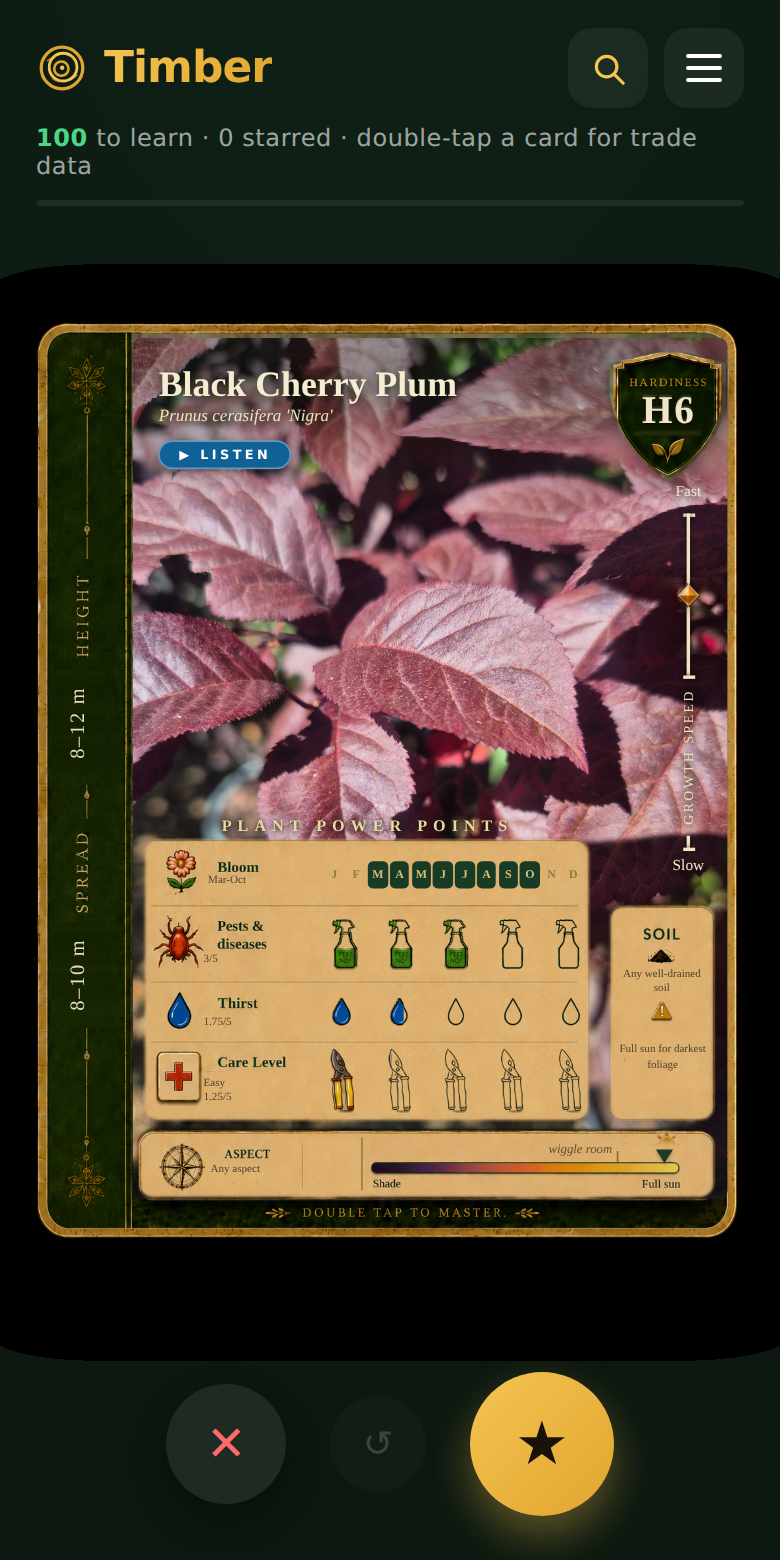
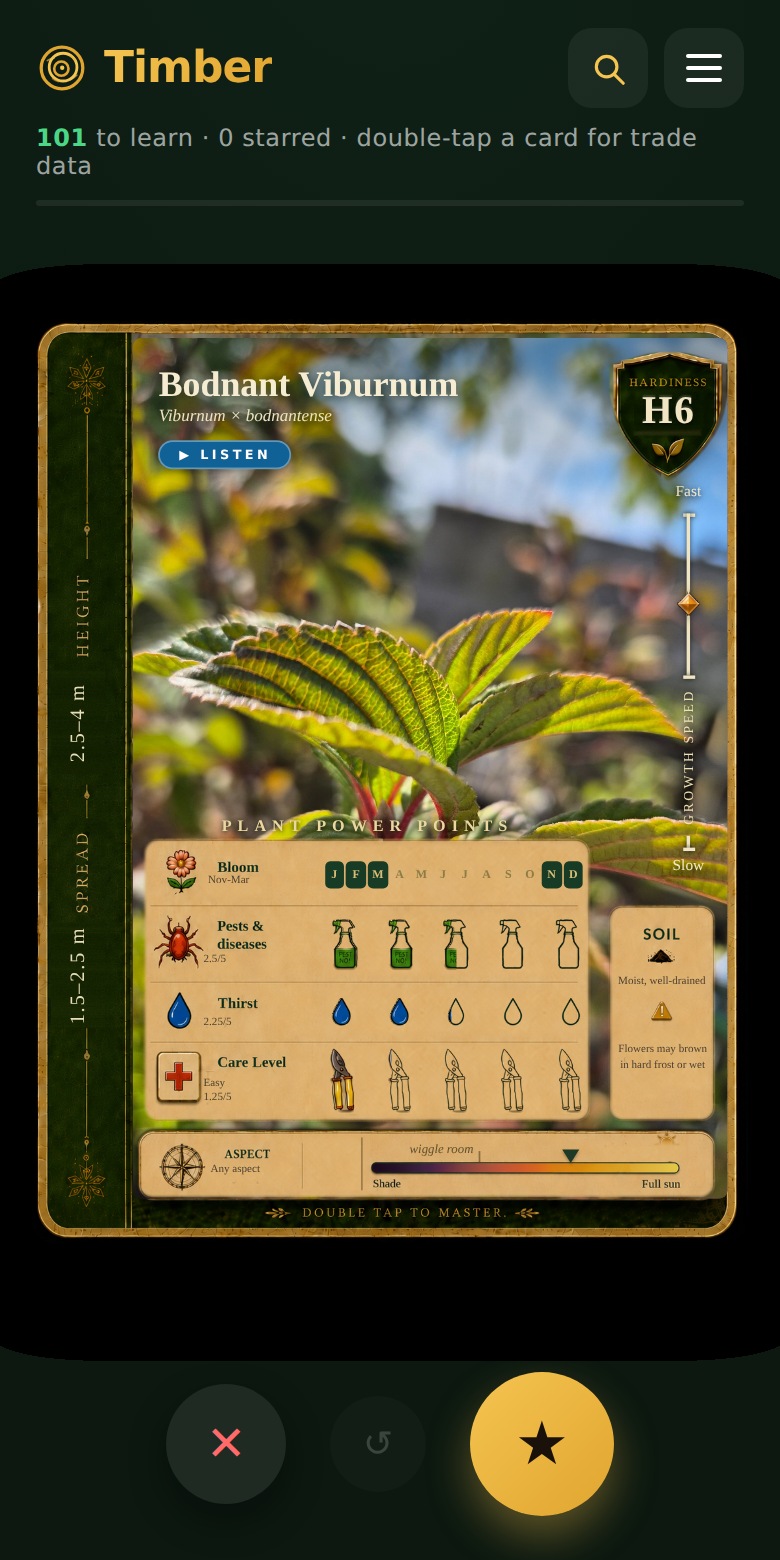
Add Bodnant Viburnum to deck: 100 -> 101

diff --git a/timber.html b/timber.html
@@ -1804,6 +1804,18 @@ const PLANTS = [
    hardiness:"H6", resilience:"cold hardy · exposed-site tolerant",
    uses:"specimen · wildlife gardens · foliage contrast", size:"8–12 m H × 8–10 m W",
    seasonalImpact:"", growthSpeed:10, pestRisk:12, thirst:7, careLevel:5, sunNeed:95, sunMin:80},
+  {common:"Bodnant Viburnum", latin:"Viburnum × bodnantense", hue:335,
+   visual:"Fragrant pink-white flowers crowd bare winter stems · bronze-flushed young leaves",
+   water:"Moderate; water during prolonged dry spells",
+   aspect:"Any aspect",
+   soil:"Moist, well-drained; Flowers may brown in hard frost or wet",
+   prune:"Minimal; prune or renovate after flowering if needed",
+   source:"", peak:"Nov-Mar", order:"", bench:"", root:"",
+   trade:"", retail:"", margin:"", type:"", shrink:"", returnRisk:"", pots:"",
+   cvs:"'Charles Lamont' · 'Dawn' · 'Deben'",
+   hardiness:"H6", resilience:"cold hardy · coastal · exposed-site tolerant",
+   uses:"winter scent · shrub borders · courtyards · pollinators", size:"2.5–4 m H × 1.5–2.5 m W",
+   seasonalImpact:"", growthSpeed:9, pestRisk:10, thirst:9, careLevel:5, sunNeed:65, sunMin:35},
 ];
 /* PLANTS:END */
 

diff --git a/tests/edge-test.js b/tests/edge-test.js
@@ -1,5 +1,5 @@
 const { chromium } = require('playwright');
-const NPLANTS = 100;  // plants in the demo deck
+const NPLANTS = 101;  // plants in the demo deck
 const URL = 'http://localhost:8477/timber.html';
 let passed = 0, failed = 0;
 const fails = [];

diff --git a/tests/app-test.js b/tests/app-test.js
@@ -1,5 +1,5 @@
 const { chromium } = require('playwright');
-const NPLANTS = 100;  // plants in the demo deck
+const NPLANTS = 101;  // plants in the demo deck
 
 const URL = 'http://localhost:8477/timber.html';
 let passed = 0, failed = 0;
